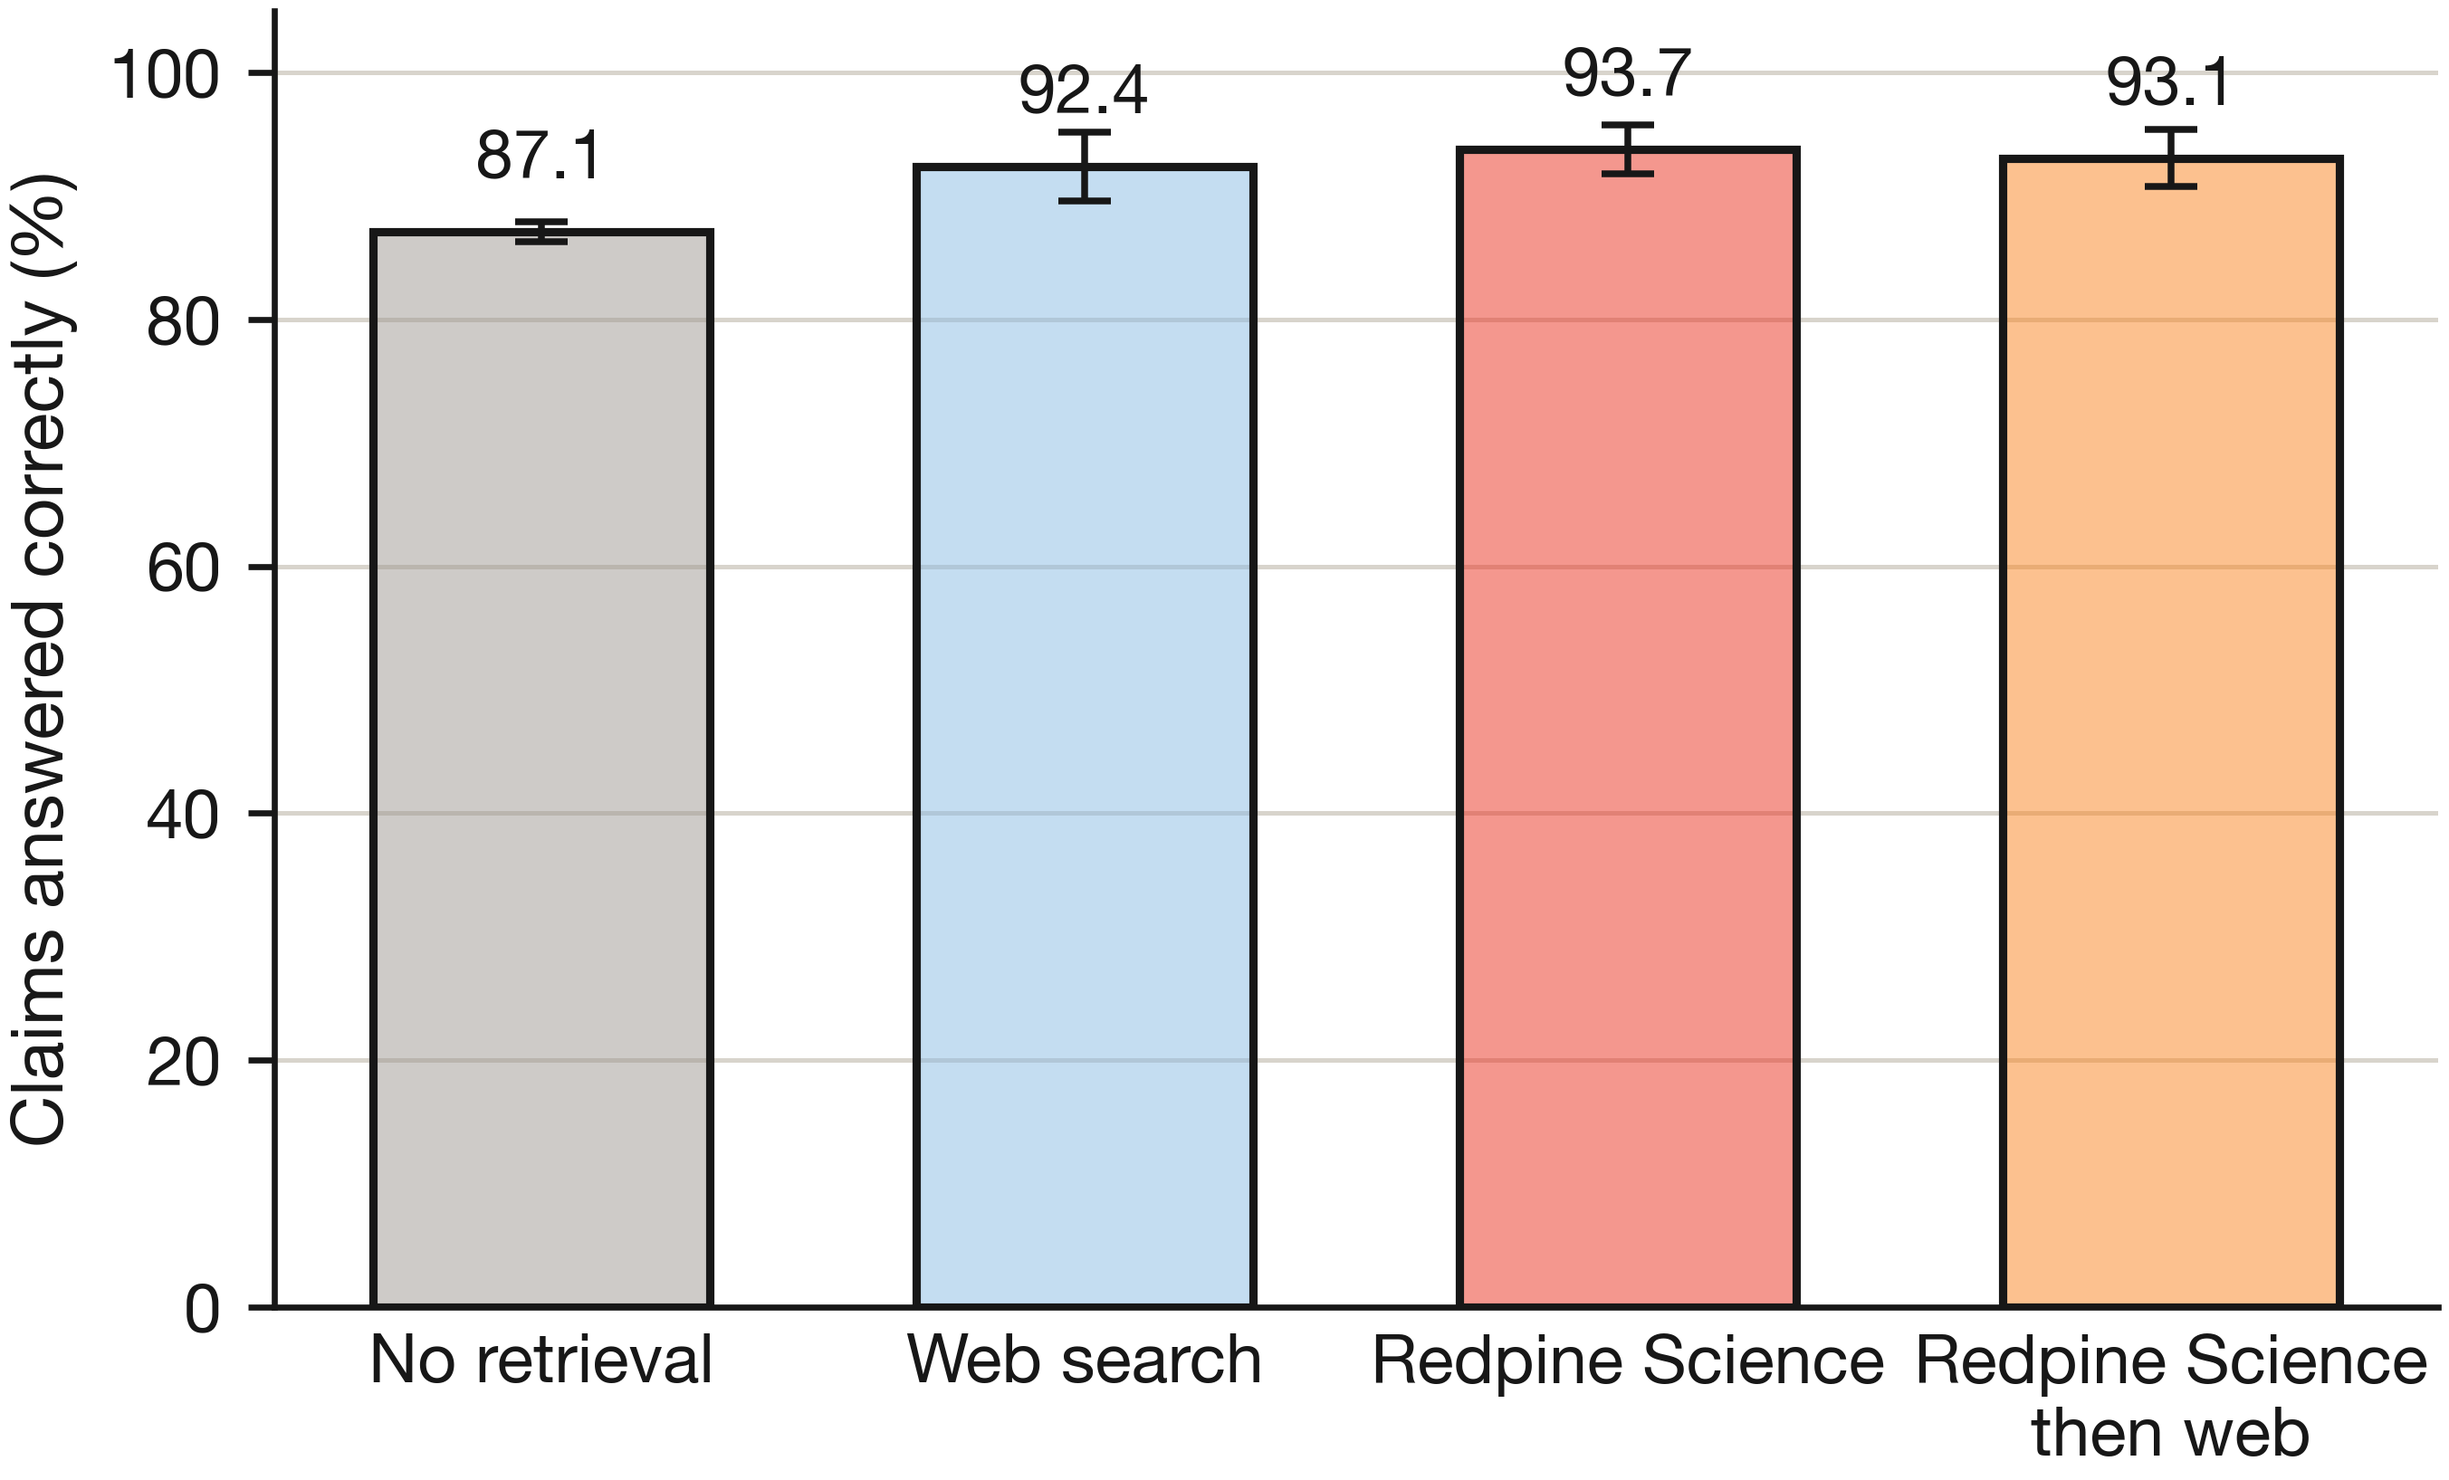
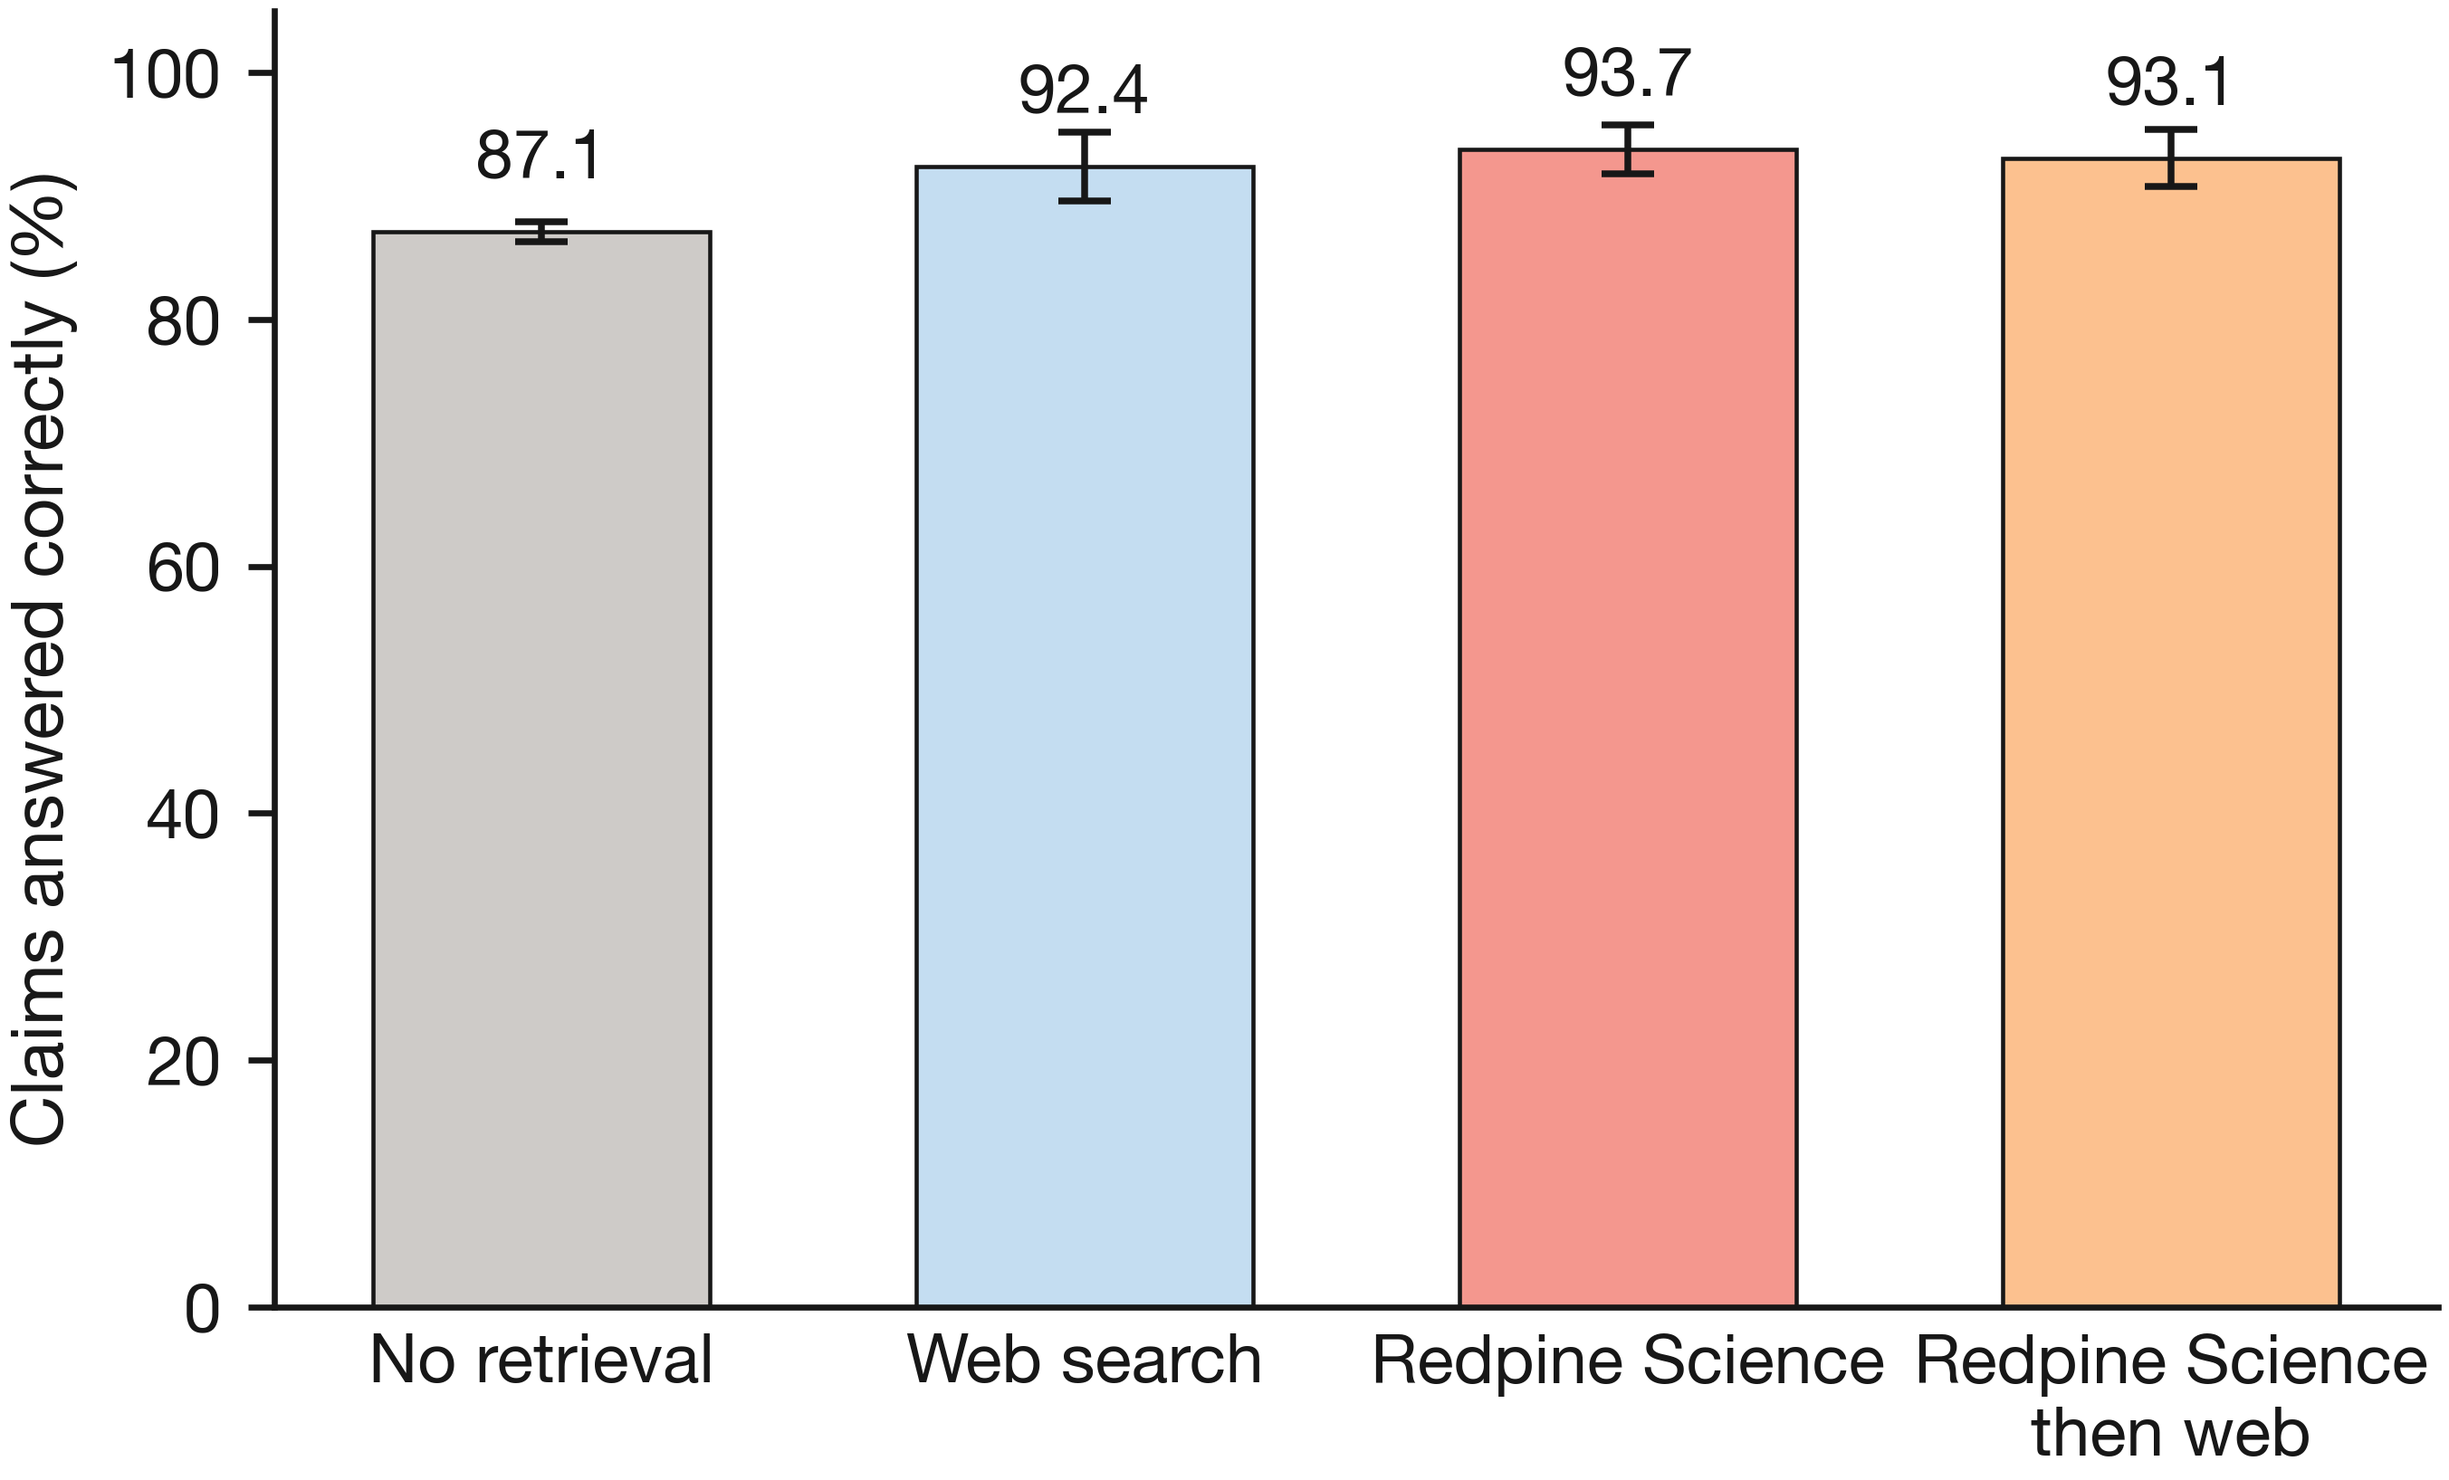
style(figures): thinner bar borders, drop background gridlines
BAR_LINEWIDTH 1.1 -> 0.55 (half). axes.grid: True -> False, so no
horizontal reference lines behind the bars -- the value labels
already carry the comparison. Regenerated all three bar figures;
headline numbers unchanged. Updated README's conventions list to
match (gridlines removed, border width noted).

diff --git a/figures/redpine_style.py b/figures/redpine_style.py
@@ -16,7 +16,8 @@ Plotting conventions, which are not brand rules but are why the figures read wel
   * bar charts start at zero, always
   * no chart title: the caption belongs in LaTeX, where it is numbered and
     referenced
-  * horizontal reference lines only, behind the data, in a light grey
+  * no background gridlines: value labels carry the comparison, nothing to
+    measure a bar against behind it
   * every bar is labelled with its value, so the reader never measures against
     the axis
   * error bars are drawn only where they mean something, and the caption must
@@ -95,7 +96,7 @@ SMALL_PT = 8     # footnotes inside the axes, legend entries
 # the fill never overpowers the value label sitting on top of it.
 BAR_ALPHA = 0.5
 BAR_EDGECOLOR = DARK_GREY
-BAR_LINEWIDTH = 1.1
+BAR_LINEWIDTH = 0.55
 
 
 def apply_style():
@@ -131,12 +132,10 @@ def apply_style():
         "xtick.direction": "out",
         "ytick.direction": "out",
 
-        # Reference lines sit behind the data and stay quiet.
-        "axes.grid": True,
+        # No background reference lines: the bars and their value labels
+        # carry the comparison, nothing to measure against behind them.
+        "axes.grid": False,
         "axes.axisbelow": True,
-        "grid.color": "#D8D4CC",
-        "grid.linewidth": 0.6,
-        "grid.alpha": 1.0,
 
         # No rounded corners, no shadows, anywhere.
         "legend.frameon": False,

diff --git a/figures/README.md b/figures/README.md
@@ -55,18 +55,19 @@ These are deliberate, and a new figure should not quietly break them.
 - **Bars start at zero.** A truncated axis turns a 6.6 point gap into a visual
   doubling, and this report's whole argument is that the numbers are modest and
   real.
-- **Bars are translucent (alpha 0.5) with a solid, fully opaque border**, via
-  `bar_style()` in `redpine_style.py`. Never pass a bare `alpha=` to `ax.bar`
-  itself — that fades the border to match the fill instead of keeping it
-  crisp against the fill and the gridlines behind it.
+- **Bars are translucent (alpha 0.5) with a solid, fully opaque, thin
+  (linewidth 0.55) border**, via `bar_style()` in `redpine_style.py`. Never
+  pass a bare `alpha=` to `ax.bar` itself — that fades the border to match
+  the fill instead of keeping it crisp.
 - **No title inside the figure.** The caption is the title, and it is numbered,
   referenced, and editable without regenerating a PDF.
 - **No headline number inside the figure**, for the same reason.
-- **Value labels on every bar**, so no one measures against the gridlines.
+- **Value labels on every bar**, so no one measures against the axis.
 - **Error bars only where they mean something**, and the caption says what they
   are. An error bar with no stated definition is worse than none.
-- **Two spines, light horizontal gridlines behind the data**, no box, no
-  shadows, no rounded corners, per the brand brief.
+- **Two spines, no background gridlines**, no box, no shadows, no rounded
+  corners, per the brand brief. The bars and their value labels carry the
+  comparison; there's nothing behind them to measure against.
 - **Transparent background**, so the figure sits on the page's own paper rather
   than carrying a slightly different white.
 - Fonts are embedded as Type 42, so the PDF stays vector and searchable.
